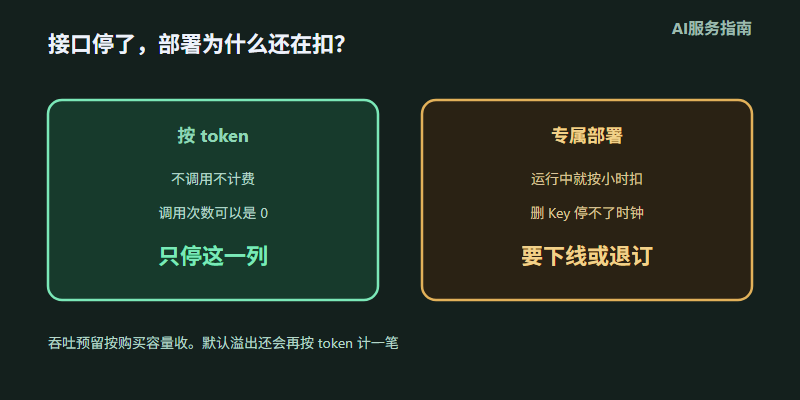
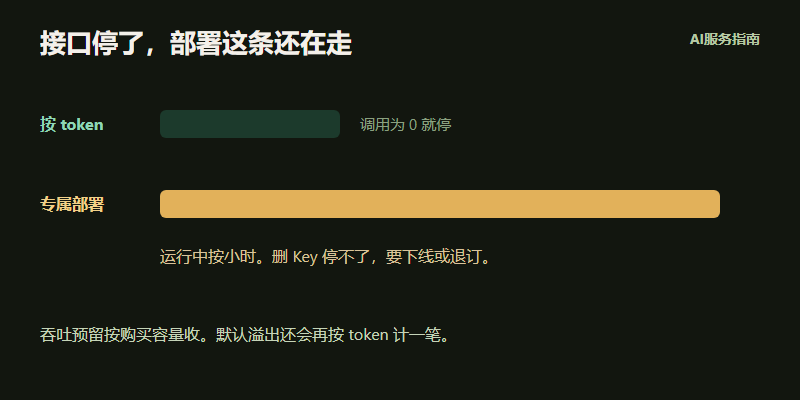
重画撞轮廓的文章封面，避免首页继续出现同一套版式。

diff --git a/CLAUDE.md b/CLAUDE.md
@@ -32,6 +32,7 @@
   文章封面固定 `viewBox="0 0 800 400"`，用 `--window-size=800,400`；首页/关于页这种大卡片式的用 `1200,630`。
 - `og:image` / `twitter:image` / JSON-LD `ImageObject.url` / `Article.image` 四处都指向 `.png`，`og:image:type` 写 `image/png`，`og:image:width`/`height` 与光栅化尺寸一致（800/400 或 1200/630，不要照抄别的页面的尺寸）。
 - 系统里没有 ImageMagick/rsvg-convert 之类的 CLI 工具，`C:\WINDOWS\system32\convert.exe` 是磁盘转换工具、不是图片转换工具，不要被名字误导；无头 Chrome 截图是当前唯一可用的光栅化手段。
+- **封面构图不能复用**（2026-11-02）。色相可以留在站点的绿和琥珀里，相似指的是轮廓。禁止再画「左一张卡、右一张同样大小的卡、各四行字」这种成对卡片，也禁止再画「左侧小标签加一排等高色块」。新封面先和最近 8 张、以及首页当时能看见的封面并排看：色块个数、横排还是竖排、是单据、时间轴、折线还是大数字，必须能一眼分开。中英文可以共用同一构图，只换文字。已经和别的封面撞轮廓的，改这一张，不要靠换标题凑合。
 
 ## 3.5 选题：别只写海外AI，国内AI大模型也要时不时覆盖
 
